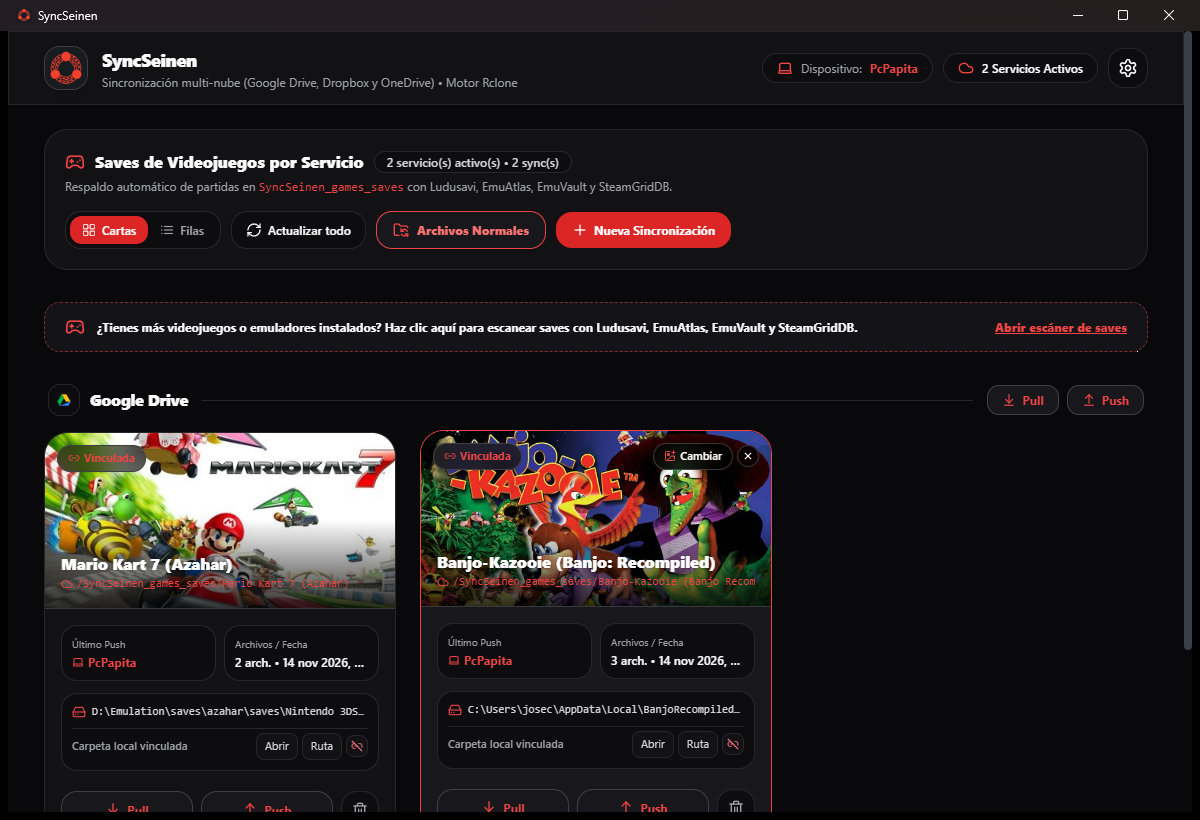
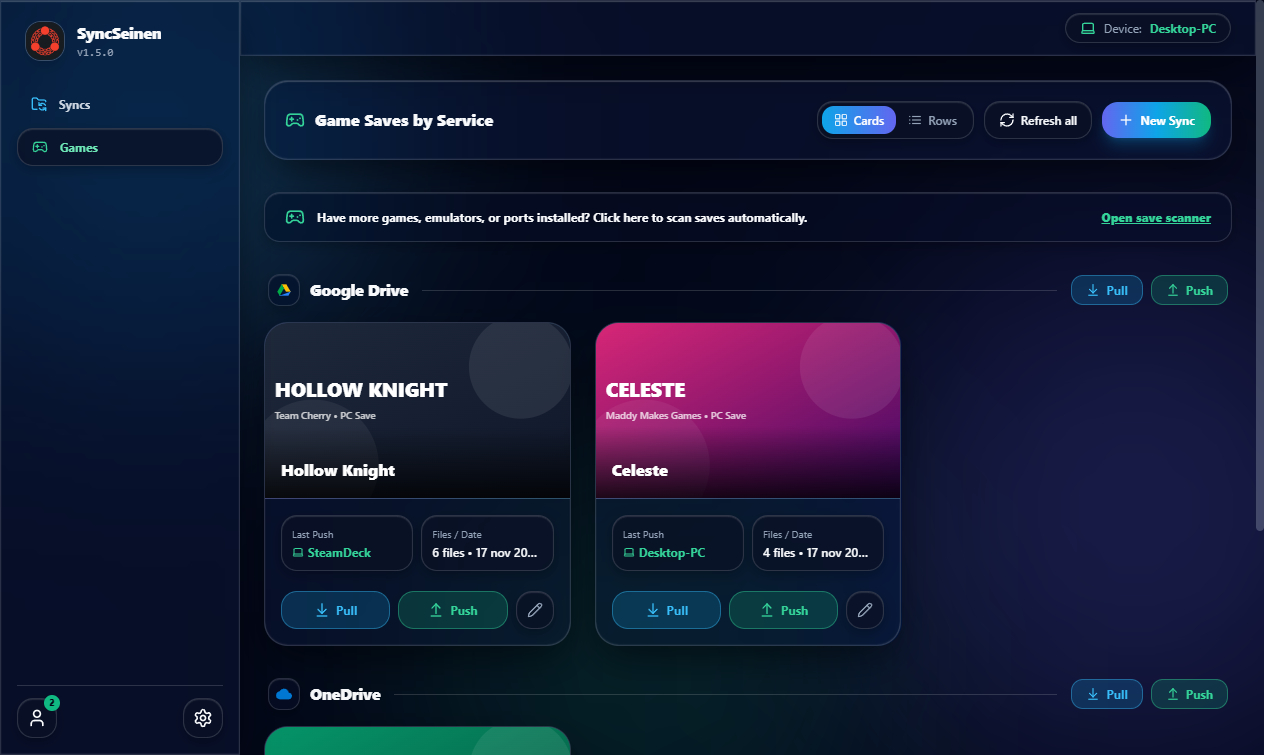
docs: update README and screenshots for v1.5.0 UI

diff --git a/README.md b/README.md
@@ -18,7 +18,7 @@
 ### Game & Emulator Saves Section
 ![Game & Emulator Saves](docs/screenshots/game-saves-dashboard.png)
 
-### Settings & Cloud Services Overlay Menu
+### Settings Section
 ![Settings Menu](docs/screenshots/settings-menu.png)
 
 ---
@@ -59,13 +59,12 @@
 
 ---
 
-## 🆕 What's New in v1.4.6
+## 🆕 What's New in v1.5.0
 
-- **English UI by default + Language Switcher:** Full English interface with an **English / Español** toggle in **Settings**.
-- **Select all / Unselect all in Ignore Files:** Quickly mark or unmark all items in the current folder when choosing ignored paths.
-- **Automatic game folder (`v1.4.5`):** Syncs marked as games automatically use `/SyncSeinen_games_saves/<name>` without manual folder selection.
-- **Ignore files on manual game syncs (`v1.4.4`):** You can now configure ignored files even when creating a manual sync marked as a game.
-- **Unified cross-platform updater (`v1.4.3`):** Releases include both `SyncSeinen-Portable.exe` (Windows) and `SyncSeinen-Linux.AppImage` (Linux).
+- **Zen-style Sidebar & Full-View Navigation:** Fixed left sidebar with **Syncs**, **Games**, bottom-left **Cloud Sessions** user button, and bottom-right **Settings** gear, plus a scrollable main content area.
+- **Cleaner Sync & Game Cards + Dedicated Edit Screen:** Cards now focus on **Last Push**, **Files / Date**, **Pull**, **Push**, and an **Edit** (`✏`) button that opens a dedicated options screen (Local Path, Open, Path, Ignore, Unlink, Cover, and Delete).
+- **Streamlined Settings & Sessions:** Full-width stacked Settings (Close behavior, Visual theme, Language) and Cloud Sessions views.
+- **v1.4.6:** English UI by default with an **English / Español** toggle in **Settings**, plus **Select all / Unselect all** in Ignore Files.
 
 ---
 

diff --git a/README.es.md b/README.es.md
@@ -18,7 +18,7 @@
 ### Apartado de Saves de Videojuegos y Emuladores
 ![Saves de Videojuegos y Emuladores](docs/screenshots/game-saves-dashboard.png)
 
-### Menú Sobrepuesto de Configuración y Servicios en la Nube
+### Apartado de Configuración
 ![Menú de Configuración](docs/screenshots/settings-menu.png)
 
 ---
@@ -59,6 +59,7 @@
 
 ## 🆕 Novedades Recientes
 
+- **v1.5.0:** Nueva barra lateral fija estilo Zen (**Syncs**, **Games**, **Sesiones** abajo a la izquierda y **Configuración** abajo a la derecha), tarjetas simplificadas con pantalla dedicada de edición (`✏`), y vistas de Configuración y Sesiones extendidas a pantalla completa.
 - **v1.4.6:** Interfaz completa en inglés por defecto con selector de idioma en Configuración, y botones **Select all / Unselect all** (`Marcar todos / Desmarcar todos`) por ruta en el selector de archivos a ignorar.
 - **v1.4.5:** Al marcar una sincronización como videojuego, la carpeta en la nube se fija automáticamente en `/SyncSeinen_games_saves/<nombre>`.
 - **v1.4.4:** Permite seleccionar archivos a ignorar también en sincronizaciones manuales marcadas como videojuego.
